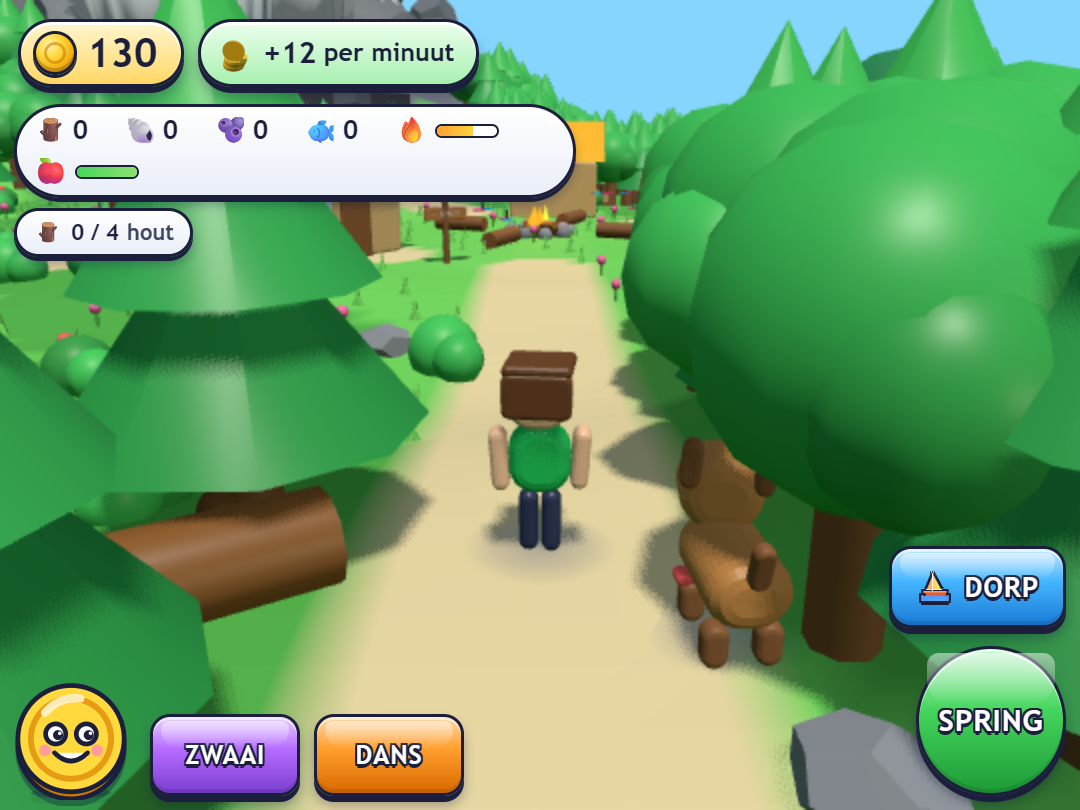
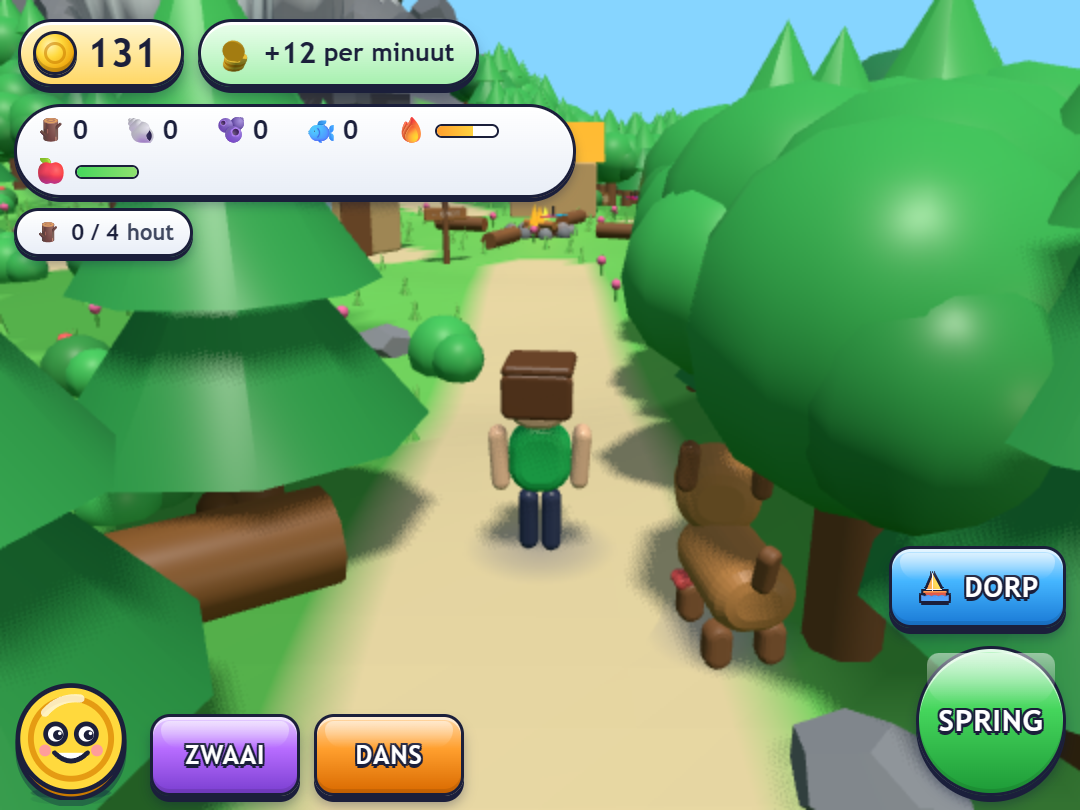
Nacht op echte tijd: vuur, honger, spoken, beer en hert rekenen met de werkelijk verstreken tijd (max 1 s per frame) en stappen nooit voorbij hun doel, zodat een trage framerate (CI, oude iPad) de wereld niet vertraagt; sw v25

diff --git a/docs/js/3d/scene-eiland.js b/docs/js/3d/scene-eiland.js
@@ -414,7 +414,8 @@ export function createEilandScene(game, engine, controls, cb = {}) {
       if (playerSafe || dist > D.sight * 1.5) { d.state = 'flee'; d.heading = Math.atan2(d.x - player.x, d.z - player.z); d.until = now + 2500; }
       else {
         d.heading = Math.atan2(player.x - d.x, player.z - d.z);
-        const nx = d.x + Math.sin(d.heading) * D.speed * dt, nz = d.z + Math.cos(d.heading) * D.speed * dt;
+        const step = Math.min(D.speed * dt, Math.max(0, dist - D.reach * 0.5));   // never overshoot the player on a long frame
+        const nx = d.x + Math.sin(d.heading) * step, nz = d.z + Math.cos(d.heading) * step;
         if (map.walkable(nx, nz)) { d.x = nx; d.z = nz; }
         if (dist < D.reach) {
           // the bump: you are shoved, the bag falls open, the deer runs off
@@ -871,7 +872,9 @@ export function createEilandScene(game, engine, controls, cb = {}) {
     const lite = engine.tier >= 2;
     terrain.update(now, lite);
     camp.update(now, daynight.darkness, lite);
-    updateNight(now, dt);
+    // the night bookkeeping (fire, hunger, ghosts, bear, deer) runs on real elapsed time, up to a second per frame,
+    // so a slow frame rate (CI, an old iPad) does not slow the world down
+    updateNight(now, Math.min(1.0, (now - prevNow) / 1000));
     engine.render(scene, camera);
   }
 

diff --git a/docs/js/nacht.js b/docs/js/nacht.js
@@ -47,7 +47,8 @@ export function stepGhost(g, ctx, config) {
   }
   const dx = ctx.target.x - g.x, dz = ctx.target.z - g.z;
   const d = Math.hypot(dx, dz);
-  const nx = g.x + (dx / Math.max(1e-6, d)) * speed * dt, nz = g.z + (dz / Math.max(1e-6, d)) * speed * dt;
+  const step = Math.min(speed * dt, d);   // a long frame never overshoots the target
+  const nx = g.x + (dx / Math.max(1e-6, d)) * step, nz = g.z + (dz / Math.max(1e-6, d)) * step;
   // light and the fence keep it out: it hovers at the edge, wobbling sideways
   const blocked = isLit(nx, nz, ctx.lights) || (ctx.fence && Math.hypot(nx - ctx.fence.x, nz - ctx.fence.z) < ctx.fence.r);
   if (blocked) {
@@ -96,8 +97,9 @@ export function stepBear(b, ctx, config) {
   const d = Math.hypot(dx, dz);
   b.heading = Math.atan2(dx, dz);
   if (d < config.nacht.bearReach) { b.state = 'flee'; b.heading += Math.PI; b.life = 6; return 'eat'; }
-  b.x += (dx / d) * config.nacht.bearSpeed * dt;
-  b.z += (dz / d) * config.nacht.bearSpeed * dt;
+  const step = Math.min(config.nacht.bearSpeed * dt, d);
+  b.x += (dx / d) * step;
+  b.z += (dz / d) * step;
   return null;
 }
 export function scareBear(b, config, scares = config.nacht.bearScares) {

diff --git a/docs/sw.js b/docs/sw.js
@@ -1,6 +1,6 @@
 // sw.js — cache-first app shell. Bump CACHE_VERSION on every deploy.
 // Every file in docs/ is precached so the game loads offline and as a home-screen app.
-const CACHE_VERSION = 'muntstad-v24';
+const CACHE_VERSION = 'muntstad-v25';
 const PRECACHE = [
   './',
   './index.html',
